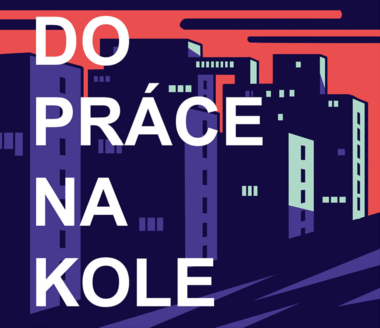
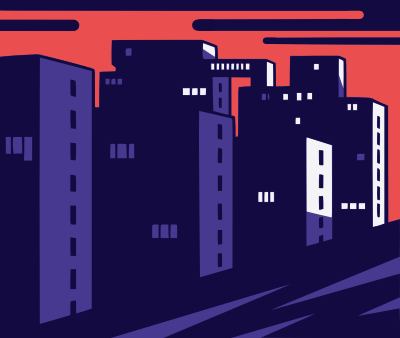
css fixes, modal css fix, new image/s on login, btn class removed in auth.py

diff --git a/apps/dpnk/static/less/style.less b/apps/dpnk/static/less/style.less
@@ -103,6 +103,7 @@ h2:empty{
   border-radius:0;
   border:0;
 }
+
 input[type="text"], input[type="password"], input[type="email"], textarea, select, .form-control{
   background-color:darken(#fff, 10%);
   border: 0;
@@ -122,7 +123,11 @@ input[type="radio"], input[type="checkbox"]{
   color:#fff;
   p{
     margin:0 0 @lh 0;
-    margin-bottom:0;
+  }
+  h1{
+    font-size:21px;
+    display: flex;
+    align-items: center;
   }
   h1, h3{
     margin-bottom:0;
@@ -276,13 +281,17 @@ form{
         }
     }
 }
-.registerme,  .register_coordinator{
+
+.registerme{
   &.btn{
     font-size: 0.9rem;
     margin: @wg 0 0 0;
     display:inline-block;
     background:@fifth;
     color:@octave;
+    overflow: hidden;
+    text-overflow: ellipsis;
+    width: 100%;
     &:hover{
       color:@octave;
       background:darken(@fifth, 10%);
@@ -291,7 +300,16 @@ form{
 }
 
 .register_coordinator{
-  float:right;
+  background: transparent;;
+  color: @fifth;
+  text-decoration: none;
+  display: block;
+  text-align: right;
+  margin-top: @f/4;
+  &:hover{
+    color:#fff;
+    text-decoration: none;
+  }
 }
 .remindme,{
   margin:@wg*0.5 0 0 0;
@@ -459,7 +477,7 @@ label{
       text-decoration:none;
       display:block;
       font-weight:100;
-      padding:@wg/4 @wg*2;
+      padding:@wg/4 @f*1.5;
       &:hover, &[aria-expanded="true"], &.active{
         color:#fff;
         // background-color:darken(@prime, 10%);
@@ -785,6 +803,8 @@ table.competition_results_table, .tableheading{
 
 .col-form-label {
   padding-top:0;
+  padding-bottom: @f/5;
+  line-height: 1rem;
 }
 .btn{
   background-color:darken(#fff, 5%);
@@ -1386,6 +1406,13 @@ div.dataTables_filter input {
     background-image: url(../img/comeX/t__0.png);
     flex: ~"0 0 calc(100% - 1rem)";
     min-height: ~"calc(100% - 1rem)";
+    display: flex;
+    align-items: center;
+    img{
+      max-width: 60%;
+      margin:0 0 0 10%;
+      max-height: 90%;
+    }
   }
 }
 .register_admin.notAuthetificated{
@@ -1394,6 +1421,9 @@ div.dataTables_filter input {
     background-size: contain;
     background-position: 0 3rem;
     background-repeat: no-repeat;
+    img{
+      display: none;
+    }
   }
 }
 
@@ -1408,6 +1438,7 @@ div.dataTables_filter input {
 
 
 .text-muted {
+  color:@fifth !important;
   &:hover{
     color: #000 !important;
   }
@@ -1415,6 +1446,7 @@ div.dataTables_filter input {
 .main_container{
   .text-muted{
     background:#c5fdf8;
+    color:@prime !important;
     &:hover{
       color:#000;
     }
@@ -1485,8 +1517,14 @@ span.select2.select2-container {
     }
   }
 }
-
-
+#helpdeskwindow{
+  .modal-body{
+    display:flex;
+    iframe{
+      width:100%;
+    }
+  }
+}
 
 @media all and (max-width: 1024px) {
   .col-fifth{
@@ -1517,8 +1555,11 @@ span.select2.select2-container {
   }
 }
 @media all and (max-width: 576px) {
+  #edit-method-chooser{
+    margin-left: @f*1.5;
+  }
   .page_title, #inner-content{
-    margin:0 @f*1.5;
+    margin:0 @f*1.5 @f*1.5 @f*1.5;
   }
   .page_title{
     margin-bottom: @f;
@@ -1551,6 +1592,9 @@ span.select2.select2-container {
       padding-left: @f*1.5;
       margin-bottom: 0;
     }
+    .nick{
+      padding-left: @f*1.5;
+    }
     .logo{
       padding-left: 15px;
     }
@@ -1581,15 +1625,17 @@ span.select2.select2-container {
     ._head{
       background:@prime;
       .nick{
+        margin-top: 0;
         font-size:@f;
         display:inline-block;
         text-align:left;
       }
+      .gain{
+        margin: 0;
+      }
     }
     .avatar_holder{
       padding:0;
-      width:20%;
-      margin-left:@wg;
       a{
         box-shadow: 0 0 1px #fff;
       }

diff --git a/apps/dpnk/templates/base_login.html b/apps/dpnk/templates/base_login.html
@@ -10,7 +10,9 @@
    <div class="container-fluid standalone-login-form">
       <div class="row d-flex comeX">
          <div class="col-12 col-sm-4 item d-flex">
-            <div class="x _0"></div>
+            <div class="x _0">
+               <img src="{% static 'img/comeX/dpnk.svg' %}" alt="Do práce na kole" id="dpnk">
+            </div>
          </div>
          <div class="col-12 col-sm-8 d-flex item" id="formality_holder">
             <div class="row formality">
@@ -31,7 +33,7 @@
                      <div class="form_head">
                         <h1>
                            <a href="/" id="go_home">
-                              <img class="dpnk-head-logo" src="{% static "img/dpnk_logo.svg" %}" alt="DPNK" />
+                              <img class="dpnk-head-logo" src="{% static 'img/dpnk_logo.svg' %}" alt="DPNK" />
                            </a>
                            {% if campaign %}
                               {{ campaign.display_name|upper }}

diff --git a/apps/dpnk/templates/registration/landing.html b/apps/dpnk/templates/registration/landing.html
@@ -14,10 +14,10 @@
 				<div class="col-12 col-sm-12 col-md-6 team_members_col">
 					{% for team_member in user_attendance.team.members %}
 						<div class="row each">
-							<div class="col-12 col-sm-12 col-md-4">
+							<div class="col-4 col-sm-6 col-md-4">
 								{% include "./user_profile_image.html" %}
 							</div>
-							<div class="col-12 col-sm-12 col-md-8 d-flex uname">
+							<div class="col-8 col-sm-6 col-md-8 d-flex uname">
 								<div class="name">
 									{{ team_member }}
 								</div>

diff --git a/apps/dpnk/templates/base_modal_windows.html b/apps/dpnk/templates/base_modal_windows.html
@@ -24,6 +24,7 @@ window.helpdesk_iframe_url = '';
             </div>
             <div class="modal-body">
                 <iframe id="helpdeskiframe" src="" name="iframe_helpdesk" frameborder="0" class="helpdesk-iframe"></iframe>
+                <iframe id="helpdeskiframe" src="" name="iframe_helpdesk" frameborder="0"></iframe>
             </div>
         </div>
     </div>

diff --git a/apps/dpnk/auth.py b/apps/dpnk/auth.py
@@ -117,7 +117,7 @@ class AuthenticationFormDPNK(CampaignMixin, AuthenticationForm):
             HTML('<a class="remindme" href="{%% url "password_reset" %%}">%s</a>' % _("Obnovit heslo")),
             social_html(True),
             HTML('<a class="registerme btn" href="{%% url "registration_access" %%}">%s</a>' % _("Registrovat")),
-            HTML('<a class="register_coordinator btn" href="{%% url "register_admin" %%}">%s</a>' % _("Registrovat firemního koordinátora")),
+            HTML('<a class="register_coordinator" href="{%% url "register_admin" %%}">%s</a>' % _("Registrovat firemního koordinátora")),
         )
         self.fields['username'].label = _("E-mail")
         return ret_val
